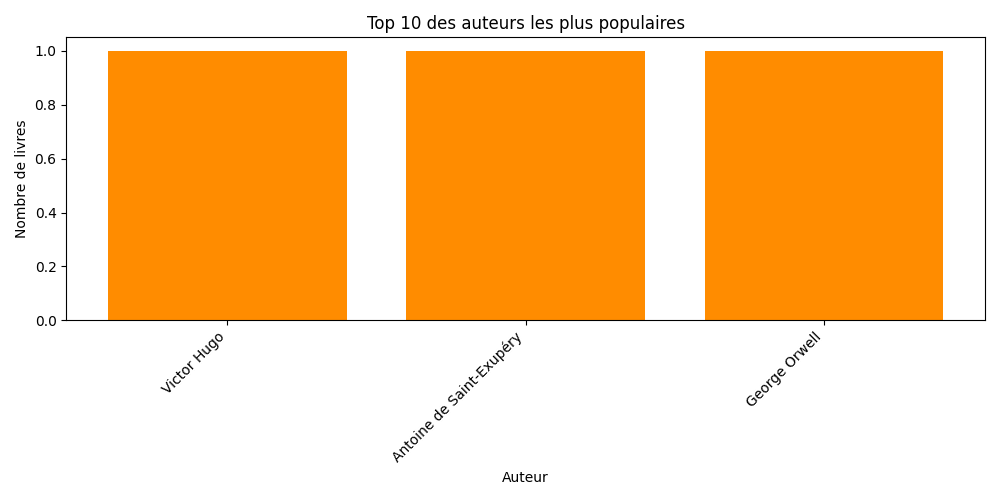
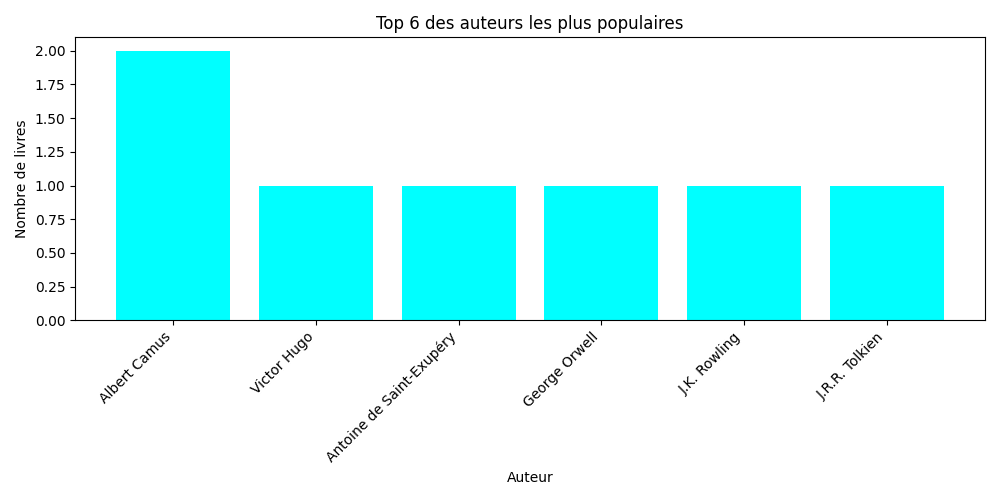
Fix type mismatch between top N authors input form and function call

diff --git a/src/main.py b/src/main.py
@@ -109,9 +109,9 @@ while True:
                             diagramme_genres(biblio.livres)
                             break
                         case "2":
-                            top = input("Donner N (le nombre des auteurs): ")
+                            top = int(input("Donner N (le nombre des auteurs): "))
                             print(f"Visualisation de Top {top} auteurs les plus populaires...")
-                            top_auteurs(biblio.livres, 10)
+                            top_auteurs(biblio.livres, top)
                             break
                         case "3":
                             print("Visualisatoin de l'activité des emprunts...")

diff --git a/README.md b/README.md
@@ -110,7 +110,7 @@ Titre: Le Petit Prince
 ### 📈 Visualiser les statistiques :
 
 * Répartition des genres (camembert)
-* Top auteurs les plus fréquents
+* Auteurs les plus fréquents
 * Activité des emprunts (30 jours)
 
 ---
